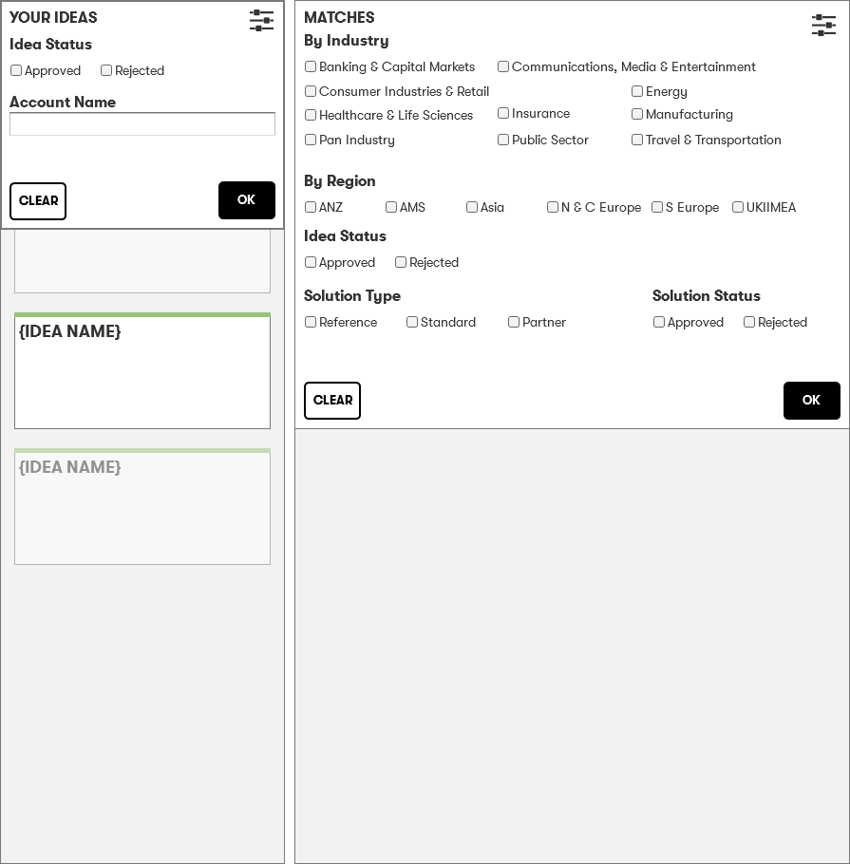
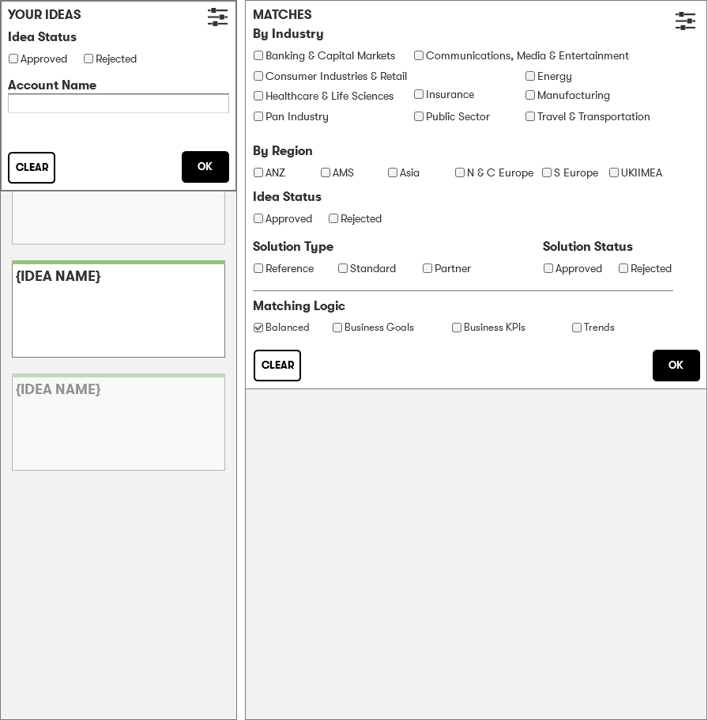
:pencil: idea dating

diff --git a/Modules/Roadmaps/IdeaDating/datamodel.md b/Modules/Roadmaps/IdeaDating/datamodel.md
@@ -1,0 +1,40 @@
+# Idea Dating
+## Cloning an existing solution
+
+When a user selects an existing solution to be copied a relationship should be created between both the `idea` and the source `solution`<br>
+
+![](images/dataModel.png)<br>
+
+### Retained source solution information
+
+- Description (c)
+- Value Proposition (c)
+- Business Value (c)
+- Technical Value (c)
+- Motivations (c)
+- Trends (r)
+- Features (r)
+
+(c) - Copied
+(r) - Relationship to existing node
+
+### Information dropped from the source solution
+
+- Contacts
+- Industry
+- Account
+- Region
+- Referenceable
+- SFDC id
+- Attachments
+
+### Information inherited from the idea
+
+- Goals
+- KPI's
+- Trends
+- Contacts
+- Account
+- Industry
+- Region
+- SFDC id

diff --git a/Modules/Roadmaps/IdeaDating/Scoring.md b/Modules/Roadmaps/IdeaDating/Scoring.md
@@ -1,0 +1,18 @@
+# Idea Dating
+## Score logic
+
+###  Balanced (default)
+business goals, KPI's and trends have an factor within the results (x1)
+
+### Business Goals
+Business goals have an increased factor of (x2) within the results, KPIs and Trends remain at (x1)
+
+### KPIs
+KPIs have an increased factor of (x2) within the results, Business goals and Trends remain at (x1)
+
+### Trends
+Trends have an increased factor of (x2) within the results, Business goals and Trends remain at (x1)
+<br><br>
+This is managed within the matching filters drop-down
+
+![image](mocks/images/filters.png)

diff --git a/Modules/Roadmaps/IdeaDating/mocks/3.md b/Modules/Roadmaps/IdeaDating/mocks/3.md
@@ -1,3 +1,9 @@
+## Idea Matching
+
+Selecting a matching idea updates the information panel on the right hand side.<br>
+If the idea has solutions related to it `(Idea)-[:TRIGGERED]->(Solution)` these are also highlighted within the matching area<br>
+The user has the option to create a `new solution model` based on a combination of their idea and the selected idea.
+
 ![](images/3.png)<br>
 <br>
 

diff --git a/Modules/Roadmaps/IdeaDating/mocks/6.md b/Modules/Roadmaps/IdeaDating/mocks/6.md
@@ -1,3 +1,8 @@
+# Idea dating - Big Ideas
+The feature of big ideas is restricted to members of the "roadmap manager" role within the platform<br>
+The features allows users to promote a single or group of ideas into a new data type called `BigIdea`
+**Big ideas** have their own workflow and tracking pages
+
 ![](images/innovationLead1.png)<br>
 <br>
 

diff --git a/Modules/Roadmaps/IdeaDating/mocks/2.md b/Modules/Roadmaps/IdeaDating/mocks/2.md
@@ -1,3 +1,7 @@
+## Idea Matching
+
+Upon selecting an idea matching ideas and solutions are presented to the user.   They are grouped by their type (idea or solution) and ordered based on the scoring results (highest first)<br>
+
 ![](images/2.png)<br>
 <br>
 

diff --git a/Modules/Roadmaps/IdeaDating/mocks/1.md b/Modules/Roadmaps/IdeaDating/mocks/1.md
@@ -1,3 +1,7 @@
+## Idea Matching
+
+Initially the user is presented with a view of the ideas from the accounts they are assigned too.
+
 ![image](images/1.png)<br>
 <br>
 

diff --git a/Modules/Roadmaps/IdeaDating/mocks/5.md b/Modules/Roadmaps/IdeaDating/mocks/5.md
@@ -1,3 +1,5 @@
+# Idea dating - Filters
+
 ![](images/filters.png)<br>
 <br>
 
